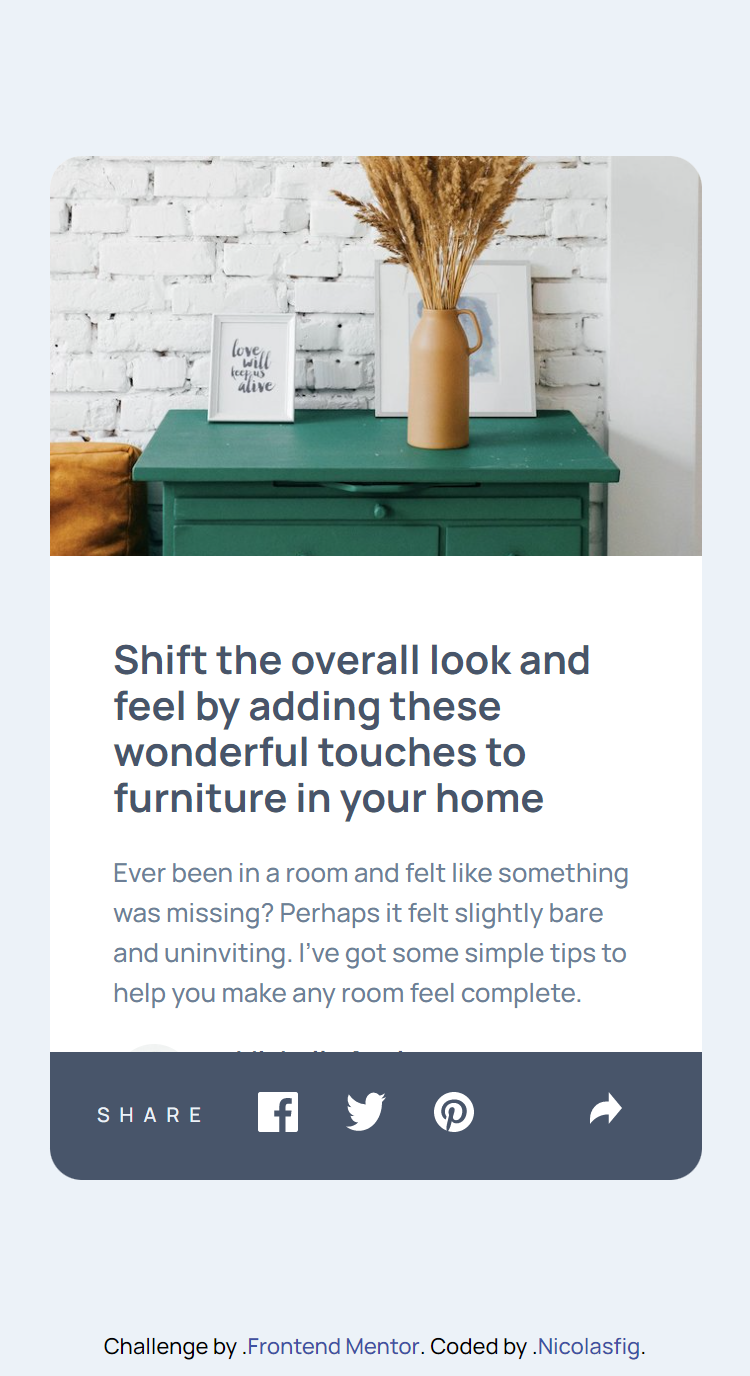
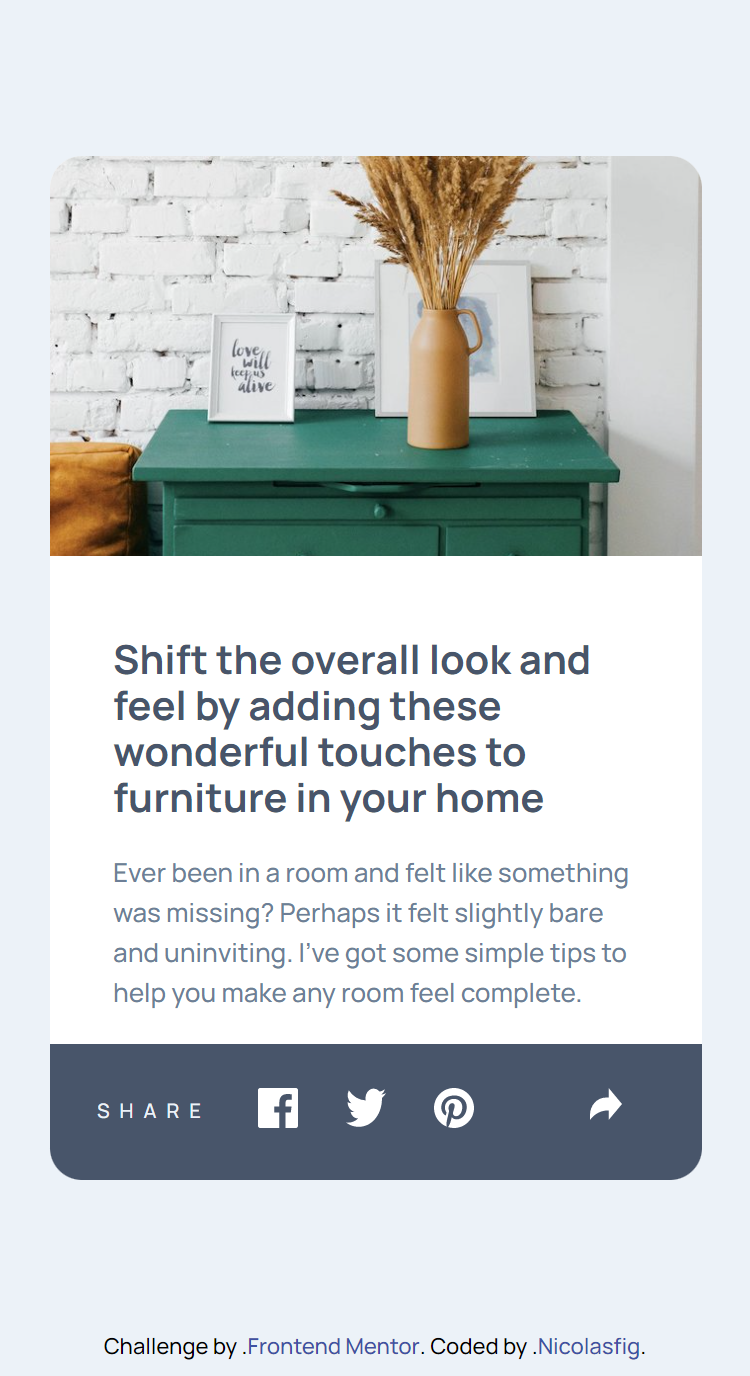
Finished project

Changed region(s): [[0.0613, 0.75, 0.92, 0.8438]]

diff --git a/style.css b/style.css
@@ -212,12 +212,12 @@ main {
     align-items: center;
     justify-content: flex-start;
     width: 326px;
-    height: 64px;
+    height: 68px;
     border-radius: 0 0 var(--s-16) var(--s-16);
     background-color: var(--very-dark-grayish-blue);
     position: absolute;
     left: -262px;
-    top: 0px;
+    top: -4px;
   }
 
   .share-buttons > p {
@@ -228,10 +228,18 @@ main {
     margin-left: var(--s-24);
   }
 
+  .share-btn {
+    position: relative;
+    z-index: 2;
+    background-color: var(--light-grayish-blue);
+  }
+
   .share-btn-icon {
     width: var(--s-16);
     height: var(--s-16);
-    z-index: 2;
+    position: relative;
+    top: 10px;
+    z-index: 1;
   }
 
   .share-buttons::after {

diff --git a/script.js b/script.js
@@ -14,5 +14,4 @@ button.addEventListener("click", () => {
   shareBtn.style.display = "flex";
   button.style.backgroundColor = "var(--very-dark-grayish-blue)";
   buttonIcon.style.filter = "brightness(100)";
-  buttonIcon.style.marginTop = "var(--s-24)";
 });
